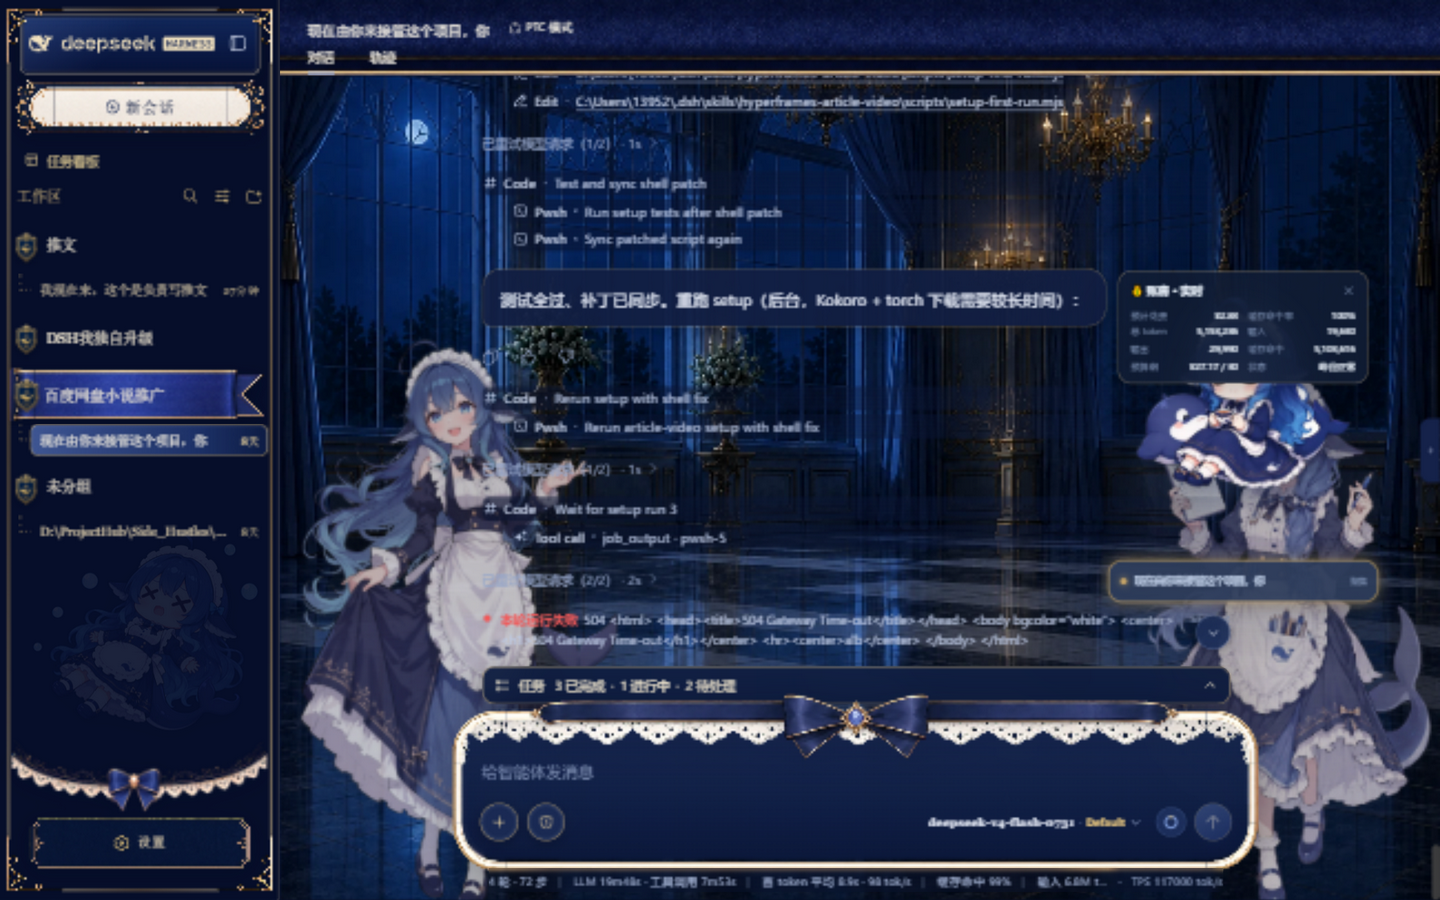
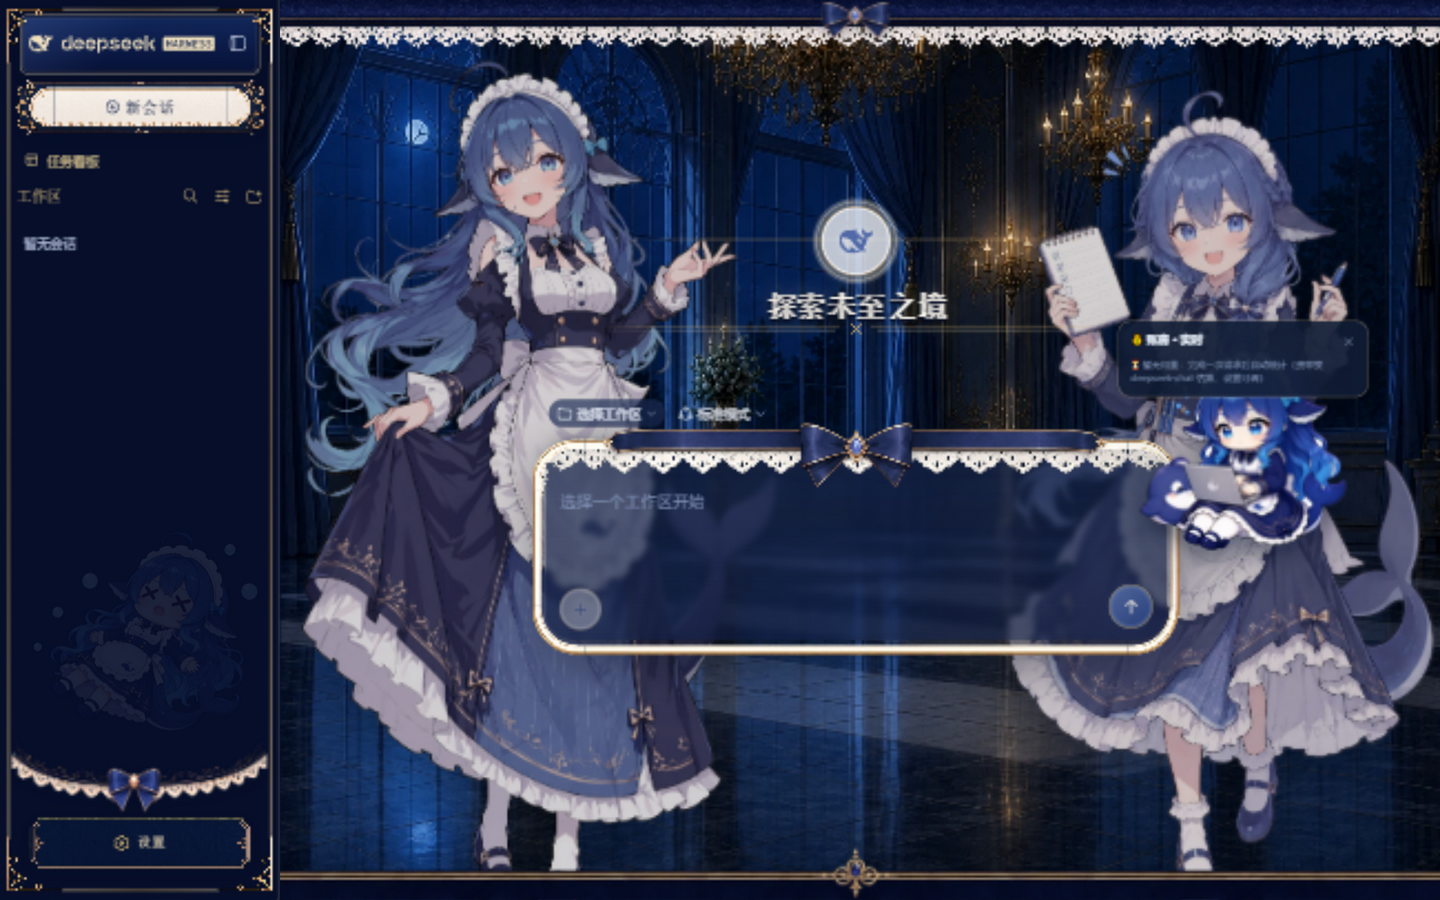
docs(readme): 配图改为无隐私版——空白会话与通用设置页
此前截图含真实会话内容/项目名/密钥等隐私（未推送，仅本地），删除并
重拍：桌面空白 hero（未选工作区、会话树为空）、手机端空白新会话、
手机端通用设置（纯默认控件）。三图经核查无任何隐私信息。

diff --git a/README.md b/README.md
@@ -7,7 +7,7 @@ English | [中文](README.zh.md)
 ![桌面端](assets/readme-desktop.png)
 
 <p align="center">
-  <img src="assets/readme-mobile-chat.png" width="280" alt="手机端 · 会话" />
+  <img src="assets/readme-mobile-hero.png" width="280" alt="手机端 · 新会话" />
   <img src="assets/readme-mobile-settings.png" width="280" alt="手机端 · 设置" />
 </p>
 

diff --git a/README.zh.md b/README.zh.md
@@ -7,7 +7,7 @@
 ![桌面端](assets/readme-desktop.png)
 
 <p align="center">
-  <img src="assets/readme-mobile-chat.png" width="280" alt="手机端 · 会话" />
+  <img src="assets/readme-mobile-hero.png" width="280" alt="手机端 · 新会话" />
   <img src="assets/readme-mobile-settings.png" width="280" alt="手机端 · 设置" />
 </p>
 
